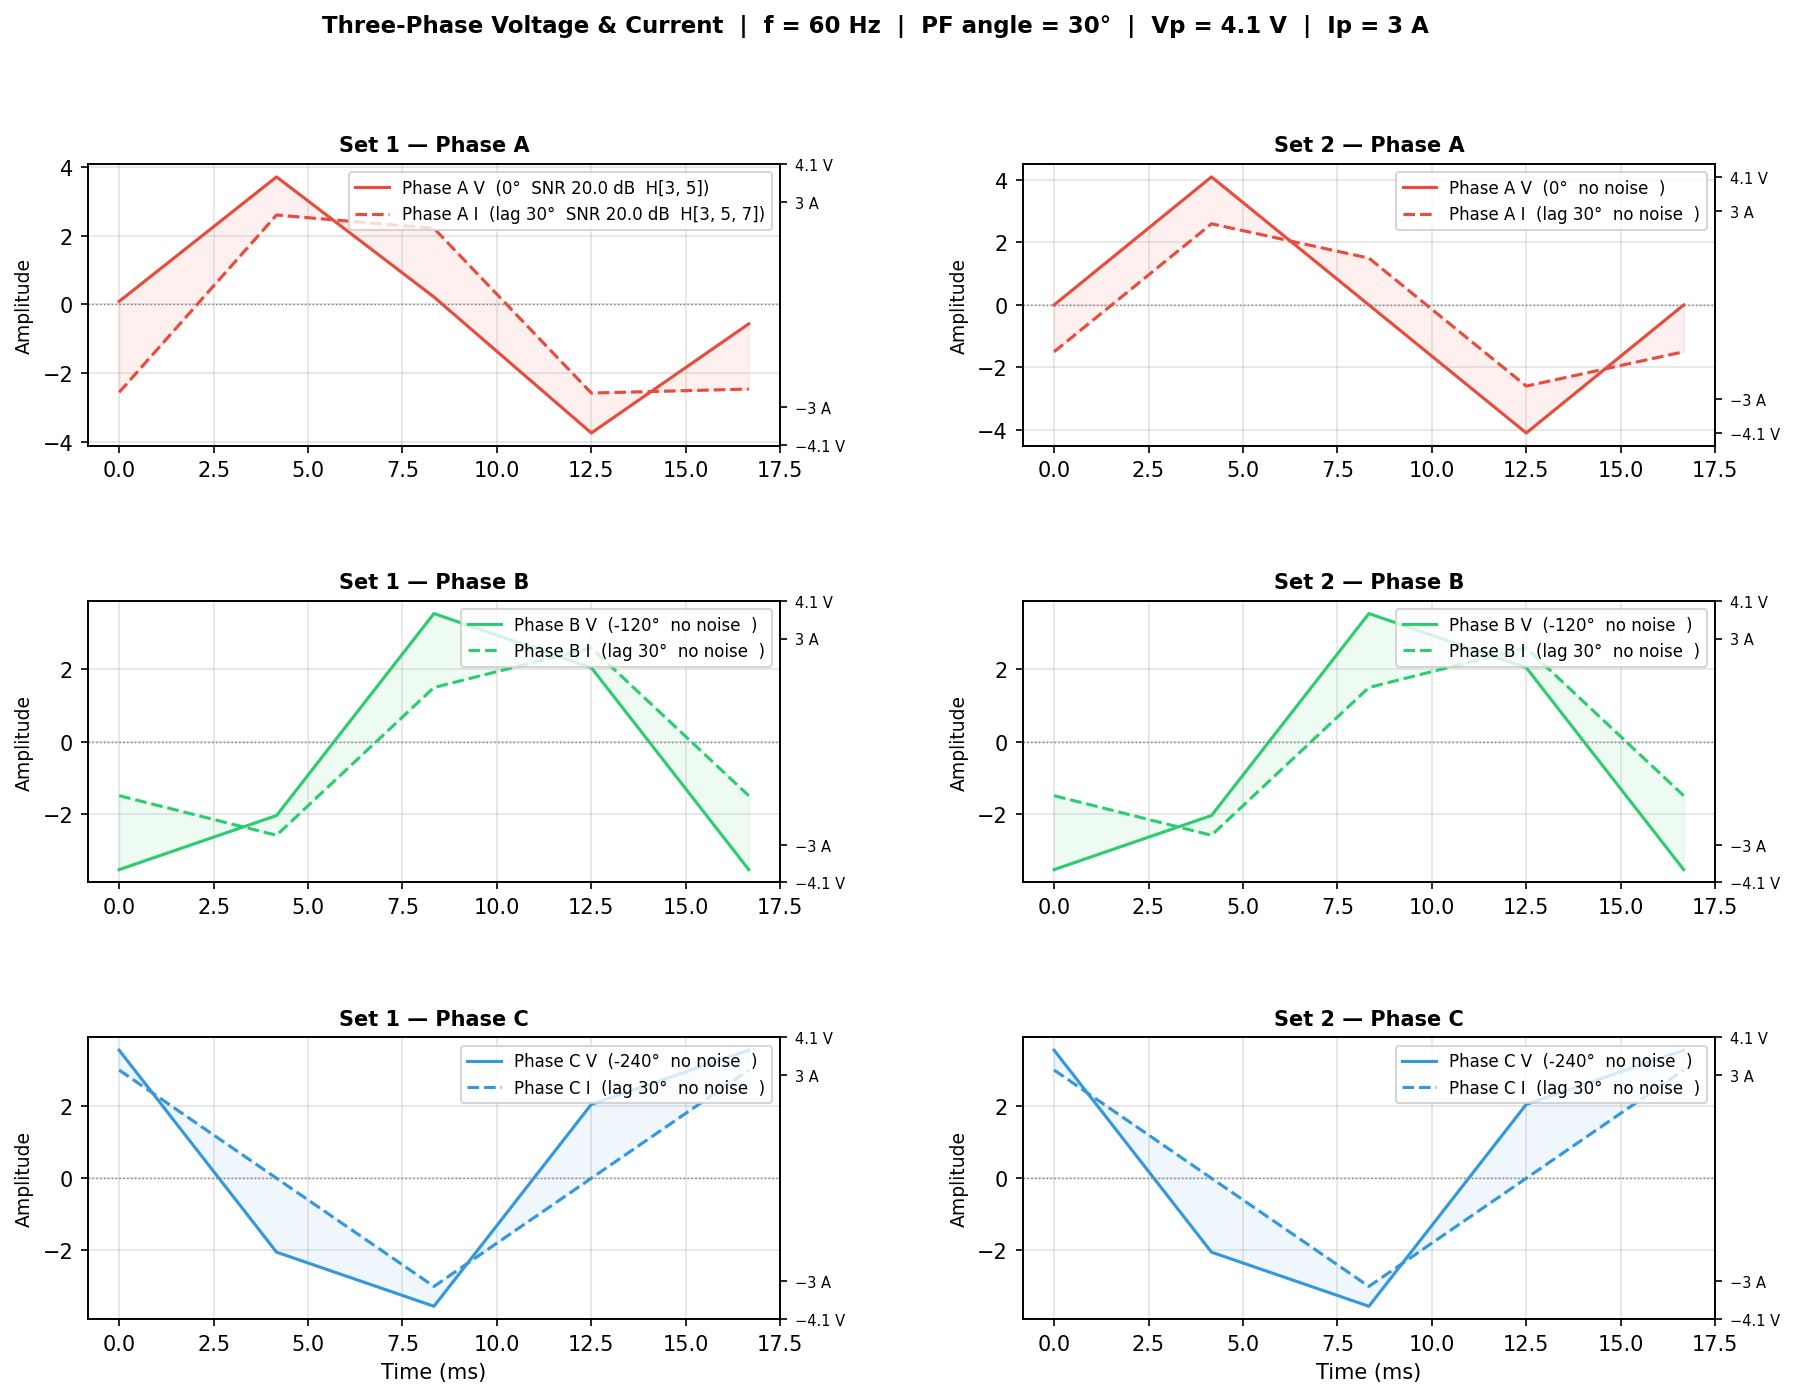
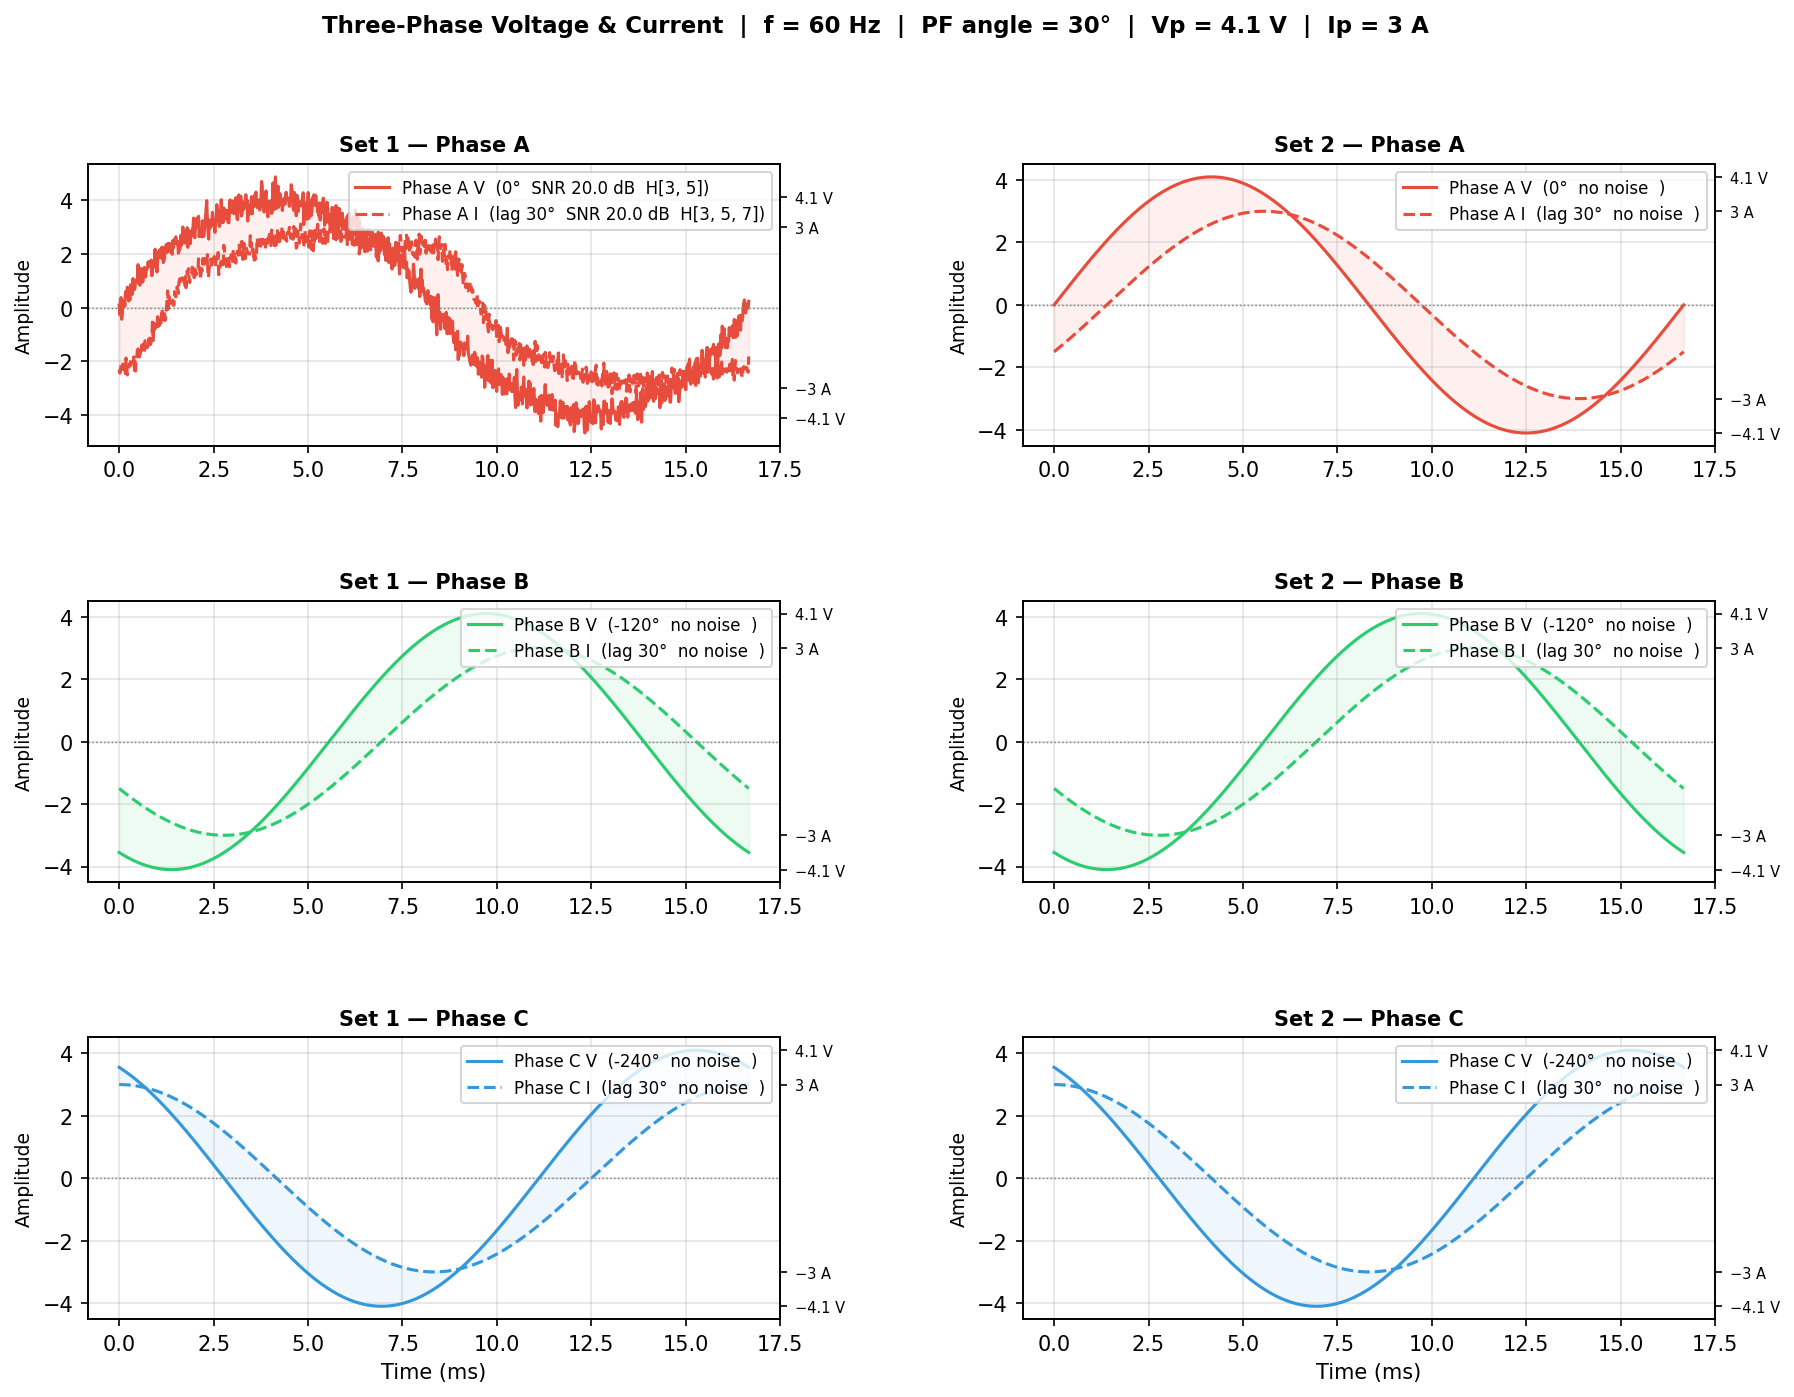
Increase plot sample count and update output image
Increased SAMPLES from 5 to 1000 for smoother waveform plots. Commented out verbose JSON print statements. Updated three_phase_plot.png to reflect the improved plot quality.

diff --git a/plot_three_phase.py b/plot_three_phase.py
@@ -22,7 +22,7 @@ AMPLITUDE_V = 4.1       # Peak voltage  (V)
 AMPLITUDE_I = 3      # Peak current  (A)
 POWER_FACTOR_ANGLE = 30 # Degrees current lags voltage (power-factor angle)
 CYCLES = 1              # Number of cycles to display
-SAMPLES = 5       # Points per plot
+SAMPLES = 1000       # Points per plot
 
 NOISE_SEED = 42           # Random seed for reproducibility (set to None for random)
 
@@ -272,7 +272,7 @@ def plot(signal_sets):
 
 if __name__ == "__main__":
     waveform_data = build_waveforms()
-    print("RR --> " + json.dumps(waveform_data, indent=4, default=str))
-    print("BB --> " + json.dumps(waveform_data[0]["voltages"], indent=4, default=str))
+    #print("RR --> " + json.dumps(waveform_data, indent=4, default=str))
+    #print("BB --> " + json.dumps(waveform_data[0]["voltages"], indent=4, default=str))
 
     plot(waveform_data)
